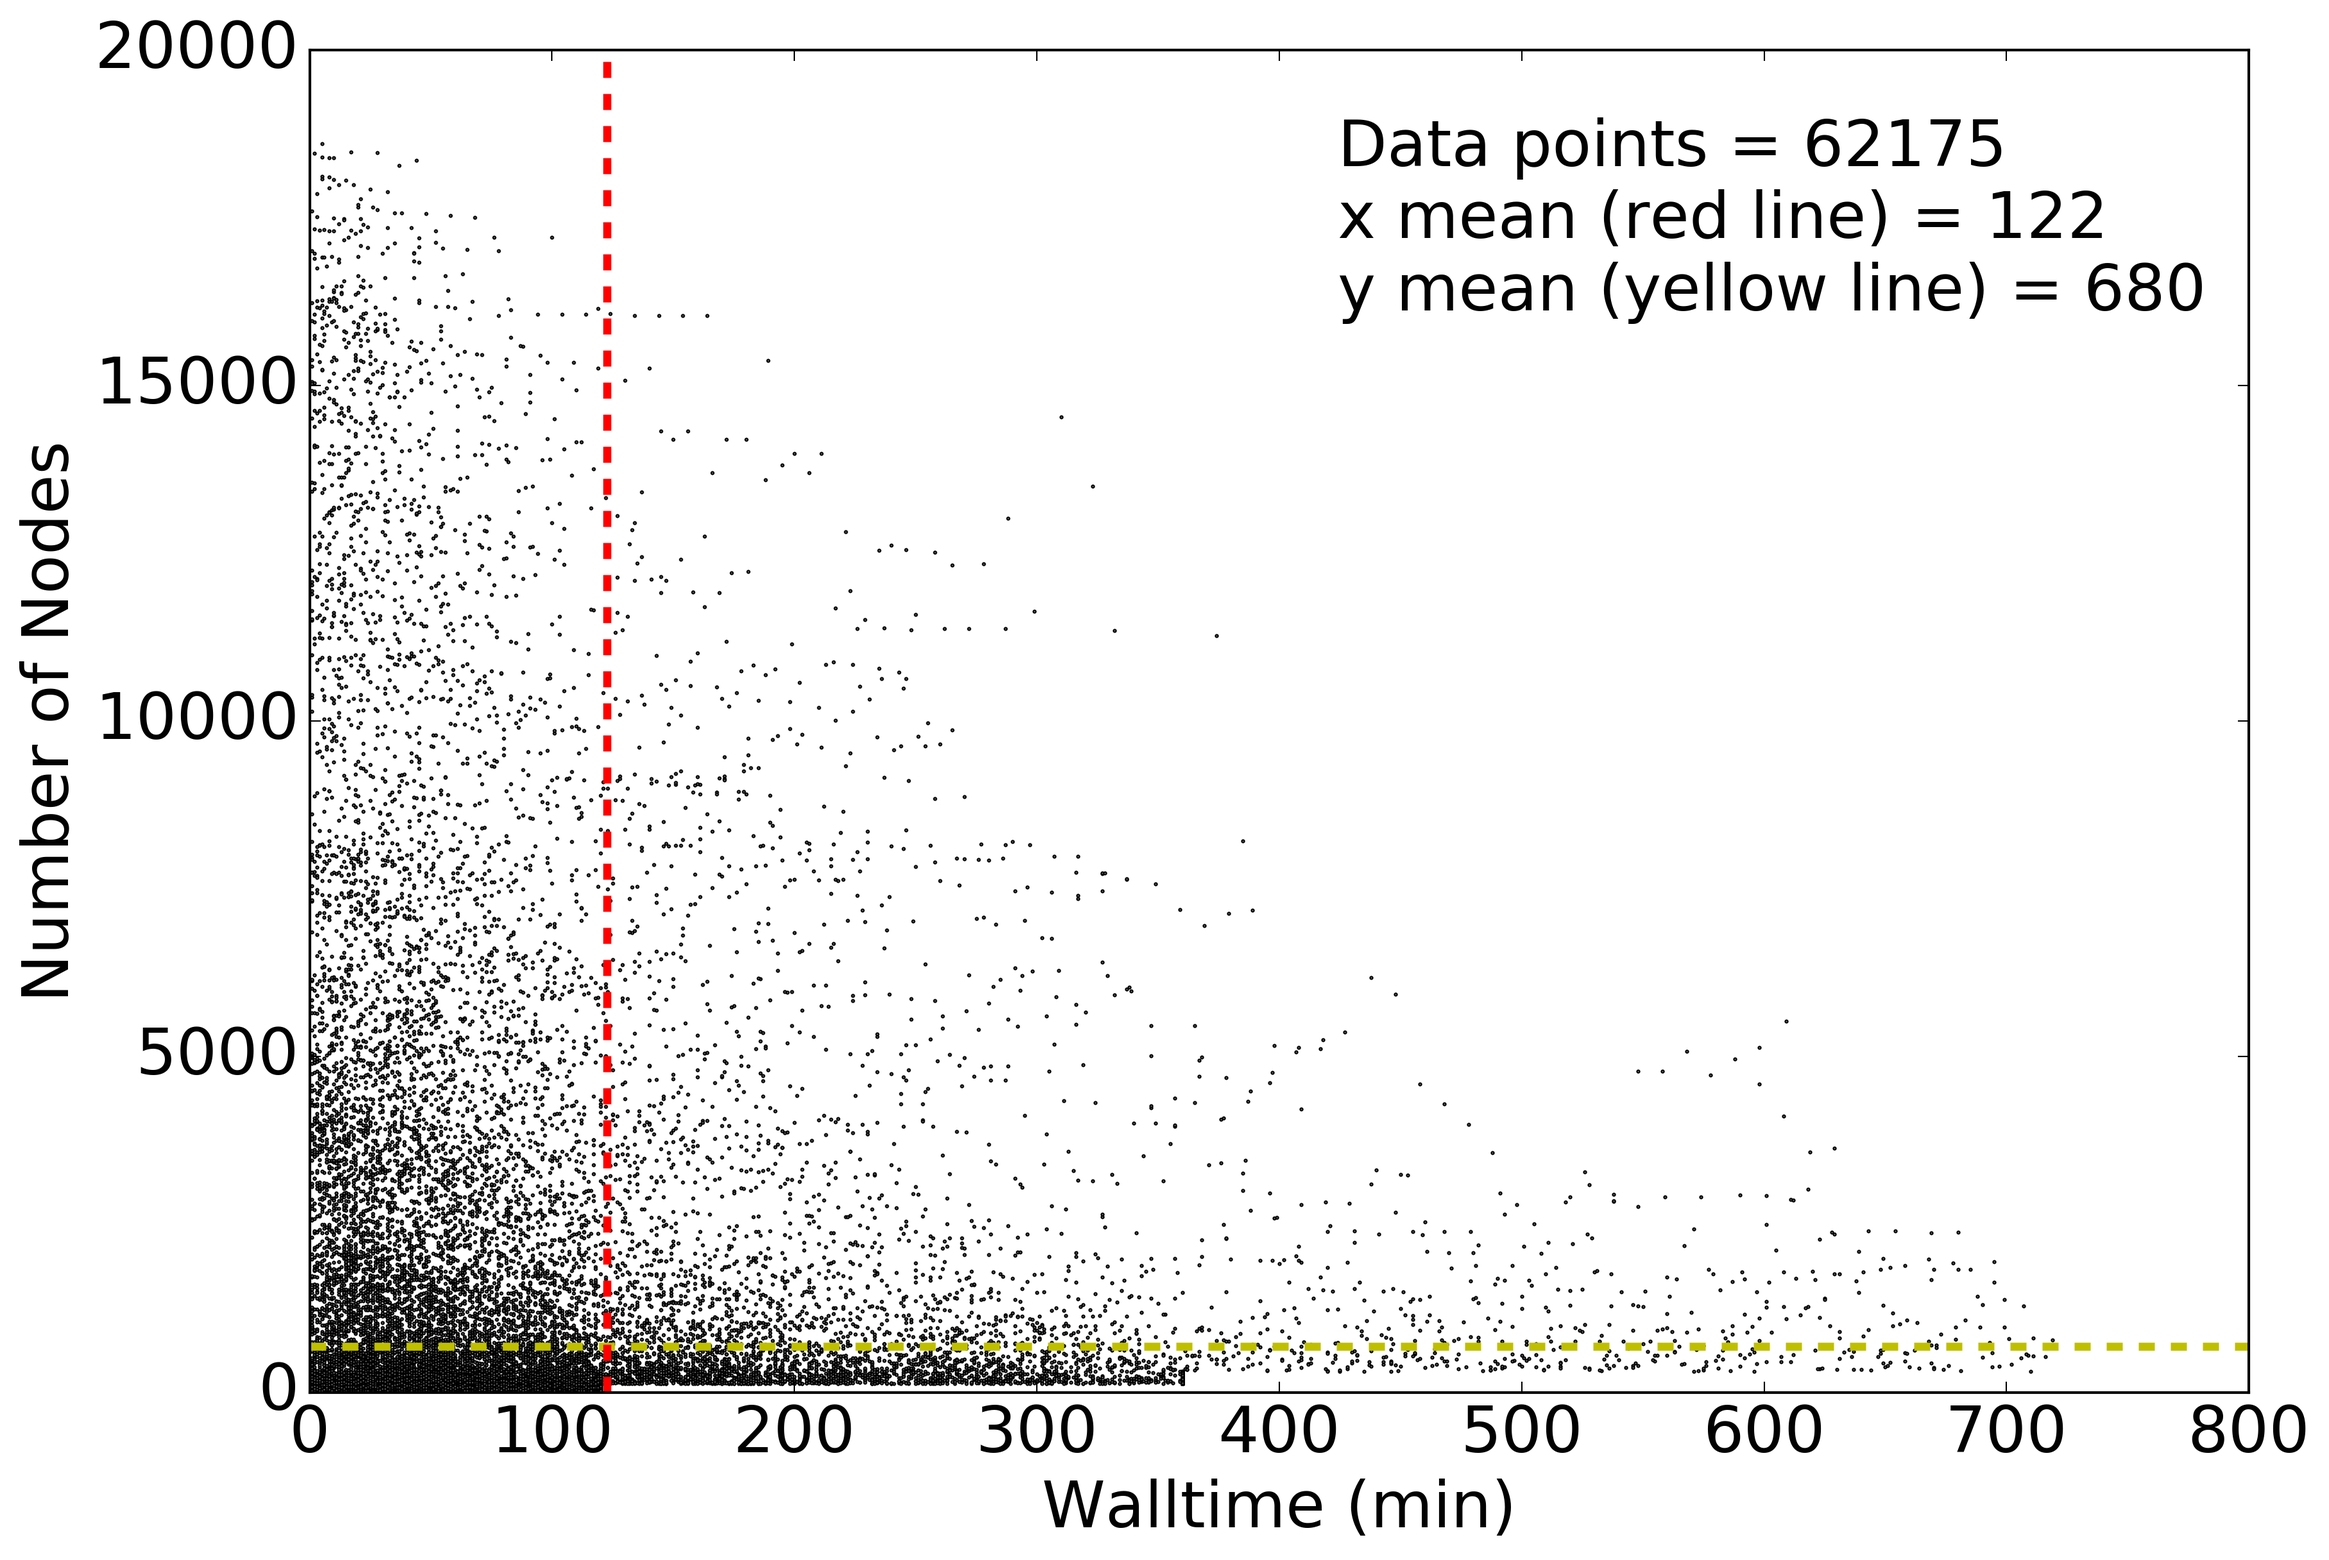
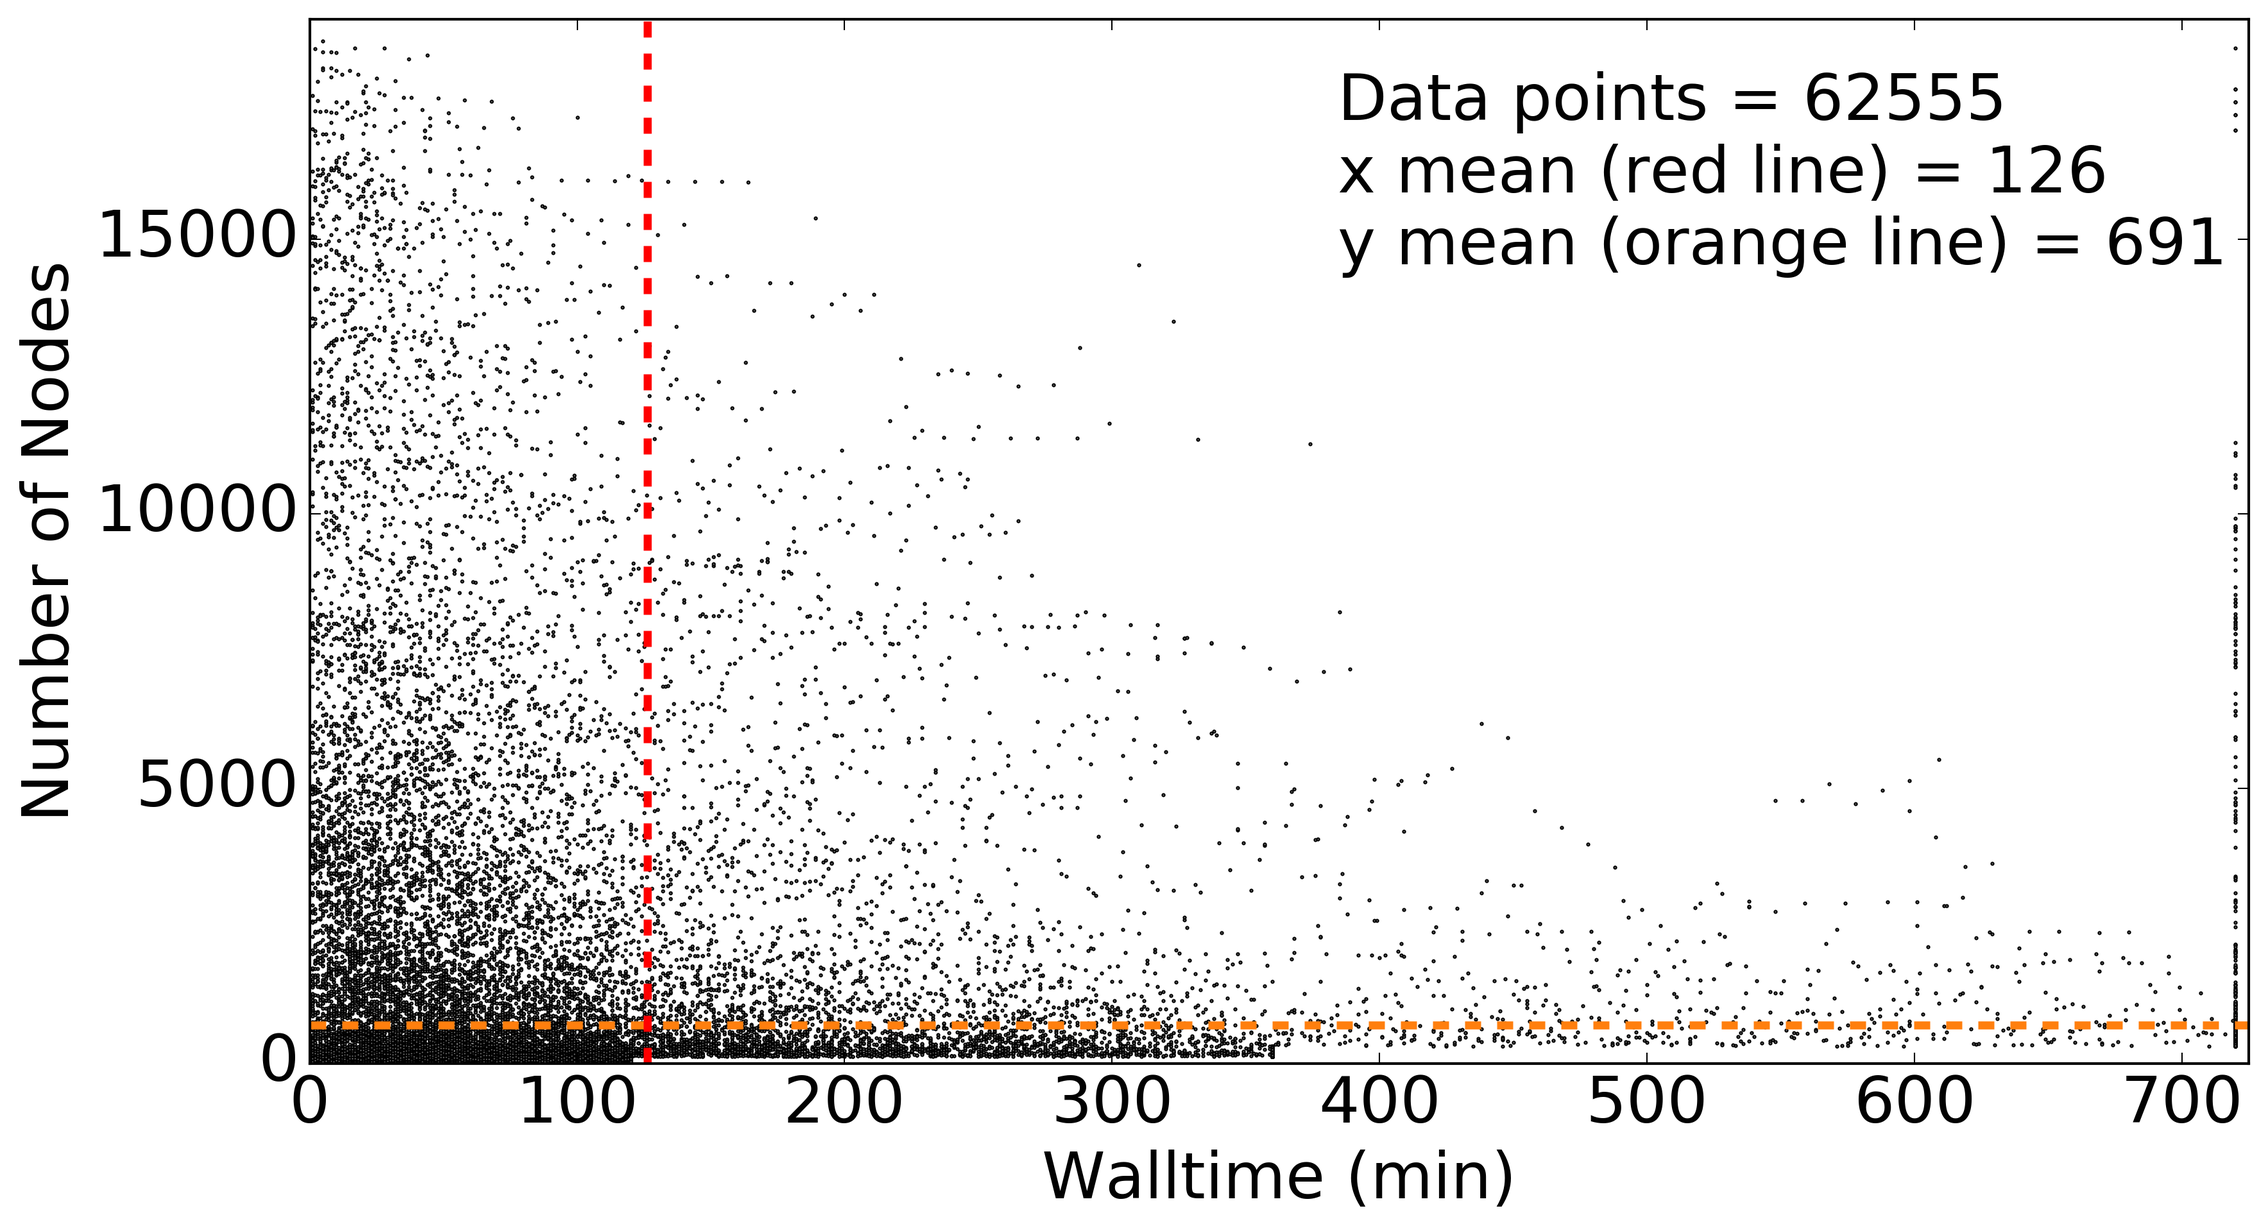
Shorter figure

diff --git a/overall.tex b/overall.tex
@@ -130,7 +130,7 @@ such, it offers a good compromise for PanDA Broker efficiency.
     %figures/avail_time_vs_nodes_Oct_28_Nov_3_2015.pdf}
     \caption{Backfill availability measures as walltime in minutes vs number of
     work nodes during the experiment window time. Availability was measured
-    62175 times: mean number of work nodes available 680 (yellow line); mean
+    62175 times: mean number of work nodes available 680 (orange line); mean
     walltime available 122 minutes (red line).}
 \label{fig:backfill-distrib}
 \end{figure}
